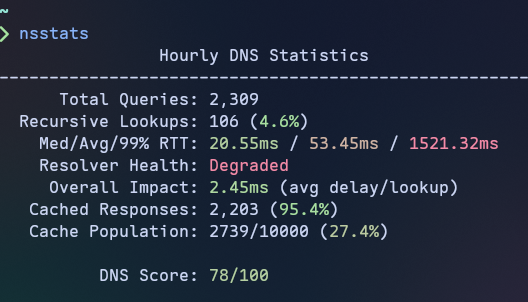
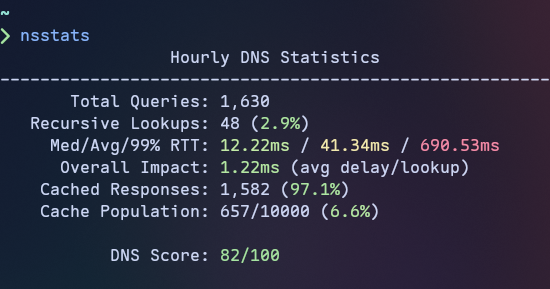
docs: update README (extra metrics screenshot)

diff --git a/README.md b/README.md
@@ -2,7 +2,15 @@
 
 A simple terminal-based DNS statistics viewer for [Technitium DNS Server](https://technitium.com/dns/), written in Nim.
 
+## Screenshots
+
+**Core Metrics (default)**
+
 ![nsstats screenshot](images/nsstats_screenshot.png)
+
+**w/Extra Metrics**
+
+![nsstats screenshot2](images/nsstats_screenshot2.png)
 
 ## Features
 
@@ -118,7 +126,7 @@ The following metrics require `-x`/`--extra` or `extra_metrics = true` in your c
 | Metric                 | Description                                                                             |
 | ---------------------- | --------------------------------------------------------------------------------------- |
 | **Resolver Health**    | Optimal (<15ms), Fair (<25ms), or Degraded (your ISP connection's effect on resolution) |
-| **Most Used Resolver** | Upstream resolver with highest query count - shows name, IP, and protocol in use        |
+| **Most Used Resolver** | Upstream resolver with highest response rate - shows name, IP, and protocol in use      |
 
 ## Contributing
 